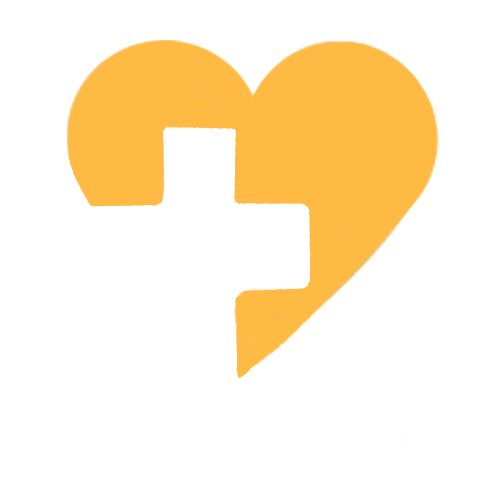
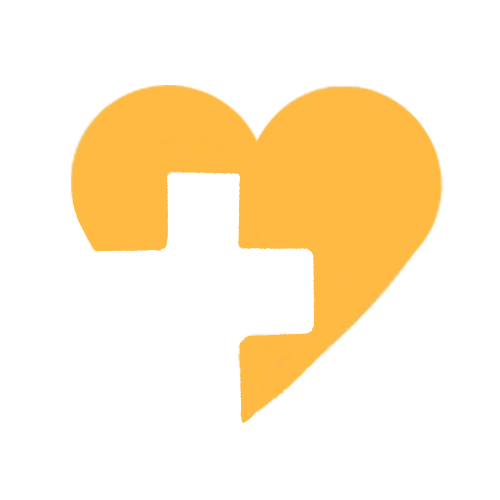
cambioLogo

Changed region(s): [[0.12, 0.06, 0.9, 0.84]]

diff --git a/formulario_de_pago.html b/formulario_de_pago.html
@@ -10,7 +10,7 @@
 <body>
     <header>
         <section class="logo">
-            <img src="./IMG/" alt="">
+            <img src="./IMG/tu-cuidadora-ideal-2-sin-cruz2.png" alt="">
         </section>
         <section class="titulo">
             <h1>Tu Cuidadora Ideal</h1>
